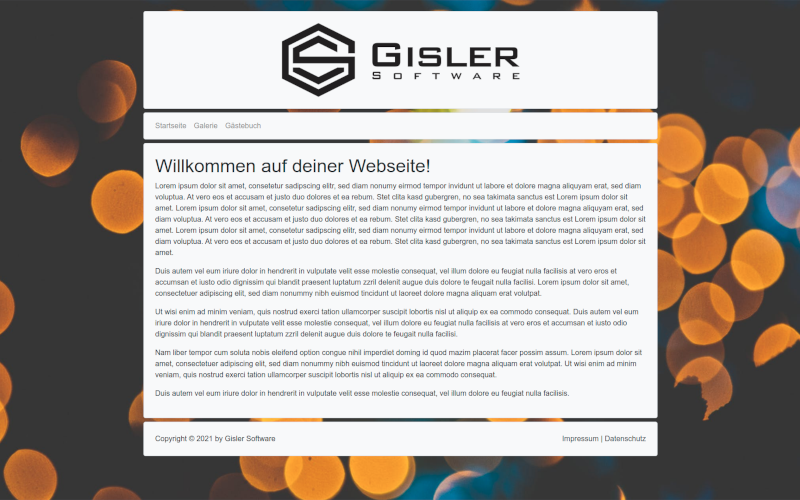
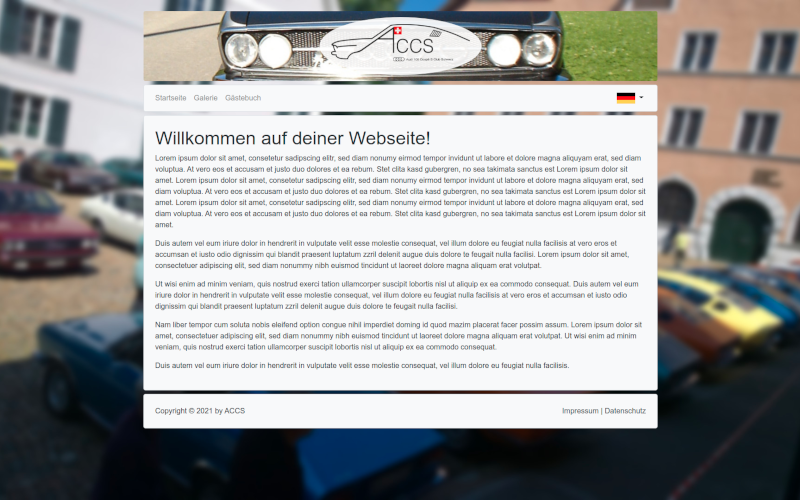
accs theme

diff --git a/assets/css/style.scss b/assets/css/style.scss
@@ -6,7 +6,7 @@ $fa-font-path: "../webfonts" !default;
 @import '../../vendor/fortawesome/font-awesome/scss/brands';
 
 body {
-  background: url('../img/bg.jpeg') no-repeat center center fixed;
+  background: url('../img/background.jpg') no-repeat center center fixed;
   -webkit-background-size: cover;
   -moz-background-size: cover;
   -o-background-size: cover;
@@ -27,4 +27,60 @@ body {
 #cookie-info {
   position: fixed;
   bottom: 0;
+}
+
+#header-carousel {
+  .carousel-item {
+    background-repeat: no-repeat;
+    background-position: center center;
+    -webkit-background-size: cover;
+    -moz-background-size: cover;
+    -o-background-size: cover;
+    background-size: cover;
+    height: 151px;
+
+    @media (max-width: 575px) {
+      height: 116px;
+    }
+  }
+
+  a.logo {
+    width: 350px;
+    height: 125px;
+    box-sizing: border-box;
+    display: block;
+    padding: 15px 25px 25px 25px;
+    background: rgba(255, 255, 255, 0.9);
+    border-radius: 50%;
+    text-align: center;
+    margin: -138px auto 13px auto;
+    max-width: 90%;
+
+    z-index: 1;
+    position: relative;
+
+    @media (max-width: 575px) {
+      margin-top: -103px;
+      width: 250px;
+      height: 90px;
+    }
+  }
+}
+
+footer {
+  p {
+    margin: 0;
+  }
+}
+
+nav {
+  @media (min-width: 992px) {
+    li.dropdown:hover > .dropdown-menu {
+      display: block;
+    }
+  }
+
+  .langswitch a {
+    text-decoration: none;
+  }
 }

diff --git a/assets/css/maintenance.scss b/assets/css/maintenance.scss
@@ -1,7 +1,7 @@
 @import '../../vendor/twbs/bootstrap/scss/bootstrap';
 
 body {
-  background: url('../img/bg.jpeg') no-repeat center center fixed;
+  background: url('../img/background.jpg') no-repeat center center fixed;
   -webkit-background-size: cover;
   -moz-background-size: cover;
   -o-background-size: cover;

diff --git a/README.md b/README.md
@@ -1,7 +1,3 @@
-# GislerCMS theme
+# GislerCMS theme for ACCS
 
-Custom theme for [gislercms](https://github.com/dominicgisler/gislercms)
-
-A custom theme allows to override existing templates in [/templates](https://github.com/dominicgisler/gislercms/tree/master/templates).
-
-This repository should give you an example about how to implement themes.
+[audi-100-coupe-s.ch](https://audi-100-coupe-s.ch)
